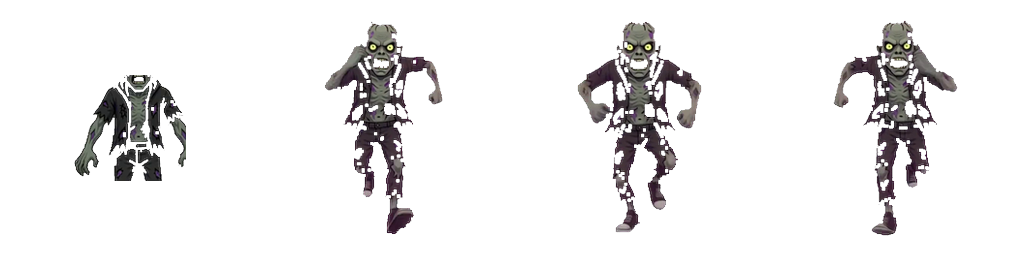
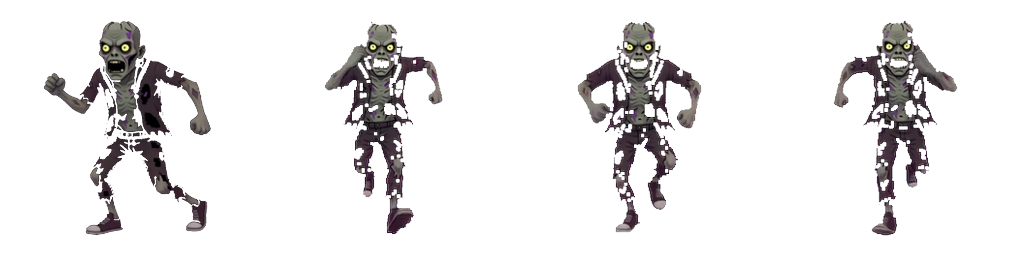
feat: 14-gun HUD strip and leftover sprite frame repairs (v0.3.8)

Changed region(s): [[0.0312, 0.0625, 0.2188, 0.9375]]

diff --git a/index.html b/index.html
@@ -26,7 +26,7 @@
   #hud .cash {color:#4dff86;text-shadow:0 0 4px #17d94f,0 0 12px #17d94f,0 0 22px #0a9e33}
   #hud .wpnName{color:#c46bff;text-shadow:0 0 4px #a03bff,0 0 8px #a03bff;font-size:26px}
   #hud .wpnIcon{display:inline-block;width:38px;height:38px;background-repeat:no-repeat;
-    background-size:500% 100%;vertical-align:middle;filter:drop-shadow(0 0 4px #a03bff)}
+    background-size:1400% 100%;vertical-align:middle;filter:drop-shadow(0 0 4px #a03bff)}
   #hud .sep  {opacity:.35}
   /* Run controls live in the DOM, BELOW the score rows. They used to be canvas-drawn at a fixed
      y=42 and collided with the cash readout at some canvas scales; as a flex row they can never
@@ -55,7 +55,7 @@
 
 // Player-facing build version. Bump this AND sw.js CACHE_VERSION together — the service worker
 // serves the shell from cache, so a version bump without a cache bump ships nothing to players.
-const GAME_VERSION = '0.3.7';
+const GAME_VERSION = '0.3.8';
 const CFG = {
   W: 540, H: 960,                 // logical portrait playfield
   // road is full-screen-width at the bottom now (see roadHalfWidth) — the player only needs
@@ -2287,7 +2287,7 @@ const ANIM={};
   IMGS.queen=heroLoad('assets/queen_hero.png');        // alien queen boss
   IMGS.soldierAnim=heroLoad('assets/soldier_fire.png');// squad rear-view fire loop (4 frames)
   IMGS.perkIcons=heroLoad('assets/perk_icons.png');    // 5 square power-up icons (128px cells)
-  IMGS.weaponIcons=heroLoad('assets/weapon_icons.png');// 5 gun icons (128px cells) for weapon gates
+  IMGS.weaponIcons=heroLoad('assets/weapon_icons.png');// 14 gun icons (128px cells) — War 0-7 + Swarm ports 8-13
   // Praetorian mini-boss animations: idle loop / attack / death sequence
   window.PRAET={idle:load('assets/praet_idle.png',4,4), attack:load('assets/praet_attack.png',5,10), death:load('assets/praet_death.png',5,9)};
 })();
@@ -3140,7 +3140,7 @@ function draw() {
       `<span class="cash">💰 ${G.credits}</span>` +
     `</div>` +
     `<div class="row2">` +
-      `<span class="wpnIcon" style="background-image:url('${wpnIconSrc}');background-position-x:${G.weapon * 25}%"></span>` +
+      `<span class="wpnIcon" style="background-image:url('${wpnIconSrc}');background-size:${Math.max(1, WEAPONS.length) * 100}% 100%;background-position-x:${WEAPONS.length > 1 ? (G.weapon * 100 / (WEAPONS.length - 1)) : 0}%"></span>` +
       `<span class="wpnName">${WEAPONS[G.weapon].name}</span>` +
     `</div>` +
     `<div class="ctrls">` +
@@ -3798,7 +3798,7 @@ const REG = [
   // ITEMS
   { key:'tank',     cat:'ITEMS',   unit:'Ironclad Tank',   action:'Idle',   h: wrapImg(IMGS.tank, 1) },
   { key:'perkIcons',cat:'ITEMS',   unit:'Power-up Icons',  action:'Icons',  h: wrapImg(IMGS.perkIcons, 5) },
-  { key:'wpnIcons', cat:'ITEMS',   unit:'Weapon Icons',    action:'Icons',  h: wrapImg(IMGS.weaponIcons, 5) },
+  { key:'wpnIcons', cat:'ITEMS',   unit:'Weapon Icons',    action:'Icons',  h: wrapImg(IMGS.weaponIcons, 14) },
   { key:'rollerB',  cat:'ITEMS',   unit:'Roller (Breakable)', action:'Idle', h: null, cell:96, xitem:'rollerB' },
   { key:'rollerA',  cat:'ITEMS',   unit:'Roller (Armored)',   action:'Idle', h: null, cell:96, xitem:'rollerA' },
 ];

diff --git a/sw.js b/sw.js
@@ -6,7 +6,7 @@
 // player-facing string) — only CACHE_VERSION needs bumping to bust stale caches; renaming
 // the prefix would work too, but bumping the version is the documented mechanism and is
 // sufficient on its own to force every returning tester to refetch the shell.
-const CACHE_VERSION = 'v28';   // bumped 2026-08-22 for v0.3.7 Swarm weapon port
+const CACHE_VERSION = 'v29';   // bumped 2026-08-22 for v0.3.8 14-gun icons + sprite frame repairs
 const CACHE_NAME = `hiveswarm-shell-${CACHE_VERSION}`;
 const PRECACHE_URLS = ['./', './index.html', './manifest.webmanifest'];
 

diff --git a/art_src/_install_sprite_fixes.py b/art_src/_install_sprite_fixes.py
@@ -1,0 +1,228 @@
+"""Install repaired runner/colossus frames into Swarm source and War copies."""
+from __future__ import annotations
+
+from collections import deque
+from pathlib import Path
+import shutil
+
+from PIL import Image
+
+CELL = 256
+SESS = [
+    Path(r"C:\Users\MiSTRFiNGA\.grok\sessions\C%3A%5CWINDOWS%5Csystem32\01a0272f-2b8d-76c2-a7ee-27779c7bca46\images"),
+    Path(r"C:\Users\MiSTRFiNGA\.grok\sessions\C%3A%5CWindows%5CSystem32\01a0272f-2b8d-76c2-a7ee-27779c7bca46\images"),
+]
+SWARM = Path(r"D:\Dev\HiveSwarm\art_src\topdown_v1")
+WAR = Path(r"D:\Dev\HiveWar\assets\swarm")
+
+
+def find_jpg(name: str) -> Path:
+    for d in SESS:
+        p = d / name
+        if p.exists():
+            return p
+    raise FileNotFoundError(name)
+
+
+def key_black(im: Image.Image, lum: int = 36) -> Image.Image:
+    im = im.convert("RGBA")
+    px = im.load()
+    w, h = im.size
+    vis = bytearray(w * h)
+    q = deque()
+
+    def idx(x, y):
+        return y * w + x
+
+    def is_bg(c):
+        r, g, b, a = c
+        if a < 8:
+            return True
+        return (r + g + b) / 3 <= lum and max(r, g, b) <= lum + 12
+
+    for x in range(w):
+        q.append((x, 0))
+        q.append((x, h - 1))
+    for y in range(h):
+        q.append((0, y))
+        q.append((w - 1, y))
+    while q:
+        x, y = q.popleft()
+        if x < 0 or y < 0 or x >= w or y >= h:
+            continue
+        i = idx(x, y)
+        if vis[i]:
+            continue
+        vis[i] = 1
+        if is_bg(px[x, y]):
+            px[x, y] = (0, 0, 0, 0)
+            q.extend(((x + 1, y), (x - 1, y), (x, y + 1), (x, y - 1)))
+    return im
+
+
+def opaque_bbox(im: Image.Image):
+    return im.split()[-1].getbbox()
+
+
+def fit_to_cell(im: Image.Image, cell: int = CELL, fill: float = 0.90) -> Image.Image:
+    bbox = opaque_bbox(im)
+    if not bbox:
+        return Image.new("RGBA", (cell, cell), (0, 0, 0, 0))
+    crop = im.crop(bbox)
+    cw, ch = crop.size
+    scale = min(fill * cell / cw, fill * cell / ch)
+    nw, nh = max(1, int(round(cw * scale))), max(1, int(round(ch * scale)))
+    crop = crop.resize((nw, nh), Image.Resampling.LANCZOS)
+    canvas = Image.new("RGBA", (cell, cell), (0, 0, 0, 0))
+    canvas.paste(crop, ((cell - nw) // 2, cell - nh - int(cell * 0.04)), crop)
+    return canvas
+
+
+def neighbor_metrics(strip: Image.Image, skip: int):
+    n = strip.width // CELL
+    heights, feet = [], []
+    for i in range(n):
+        if i == skip:
+            continue
+        fr = strip.crop((i * CELL, 0, (i + 1) * CELL, CELL))
+        bb = opaque_bbox(fr)
+        if not bb:
+            continue
+        heights.append(bb[3] - bb[1])
+        feet.append(bb[3])
+    if not heights:
+        return 200, CELL - 20
+    heights.sort()
+    feet.sort()
+    return heights[len(heights) // 2], feet[len(feet) // 2]
+
+
+def place_like_neighbors(keyed: Image.Image, strip: Image.Image, skip: int) -> Image.Image:
+    target_h, target_foot = neighbor_metrics(strip, skip)
+    bbox = opaque_bbox(keyed)
+    crop = keyed.crop(bbox)
+    cw, ch = crop.size
+    scale = target_h / ch
+    max_scale = (CELL - 8) / max(cw, ch)
+    scale = min(scale, max_scale)
+    nw, nh = max(1, int(round(cw * scale))), max(1, int(round(ch * scale)))
+    crop = crop.resize((nw, nh), Image.Resampling.LANCZOS)
+    canvas = Image.new("RGBA", (CELL, CELL), (0, 0, 0, 0))
+    x = (CELL - nw) // 2
+    y = max(4, min(CELL - nh - 4, target_foot - nh))
+    canvas.paste(crop, (x, y), crop)
+    return canvas
+
+
+def patch_strip(path: Path, frame_i: int, keyed: Image.Image) -> None:
+    strip = Image.open(path).convert("RGBA")
+    cell = place_like_neighbors(keyed, strip, frame_i)
+    strip.paste(cell, (frame_i * CELL, 0))
+    strip.save(path)
+    print("patched", path.name, "frame", frame_i, "bbox", opaque_bbox(cell))
+
+
+def save_square(keyed: Image.Image, dest: Path, fill: float = 0.92) -> Image.Image:
+    cell = fit_to_cell(keyed, CELL, fill)
+    dest.parent.mkdir(parents=True, exist_ok=True)
+    cell.save(dest)
+    print("wrote", dest.name, opaque_bbox(cell))
+    return cell
+
+
+def main() -> None:
+    bak = SWARM / "_bak_art_0_6_23"
+    bak.mkdir(exist_ok=True)
+    for name in [
+        "runner_walk_s.png",
+        "runner_e.png",
+        "runner_idle_e.png",
+        "runner_w.png",
+        "runner_idle_w.png",
+        "zombie_colossus_walk_s.png",
+        "zombie_colossus_walk_se.png",
+        "zombie_colossus_walk_sw.png",
+        "zombie_colossus_walk_e.png",
+        "zombie_colossus_walk_w.png",
+        "zombie_colossus_e.png",
+        "zombie_colossus_w.png",
+        "zombie_colossus_idle_e.png",
+        "zombie_colossus_idle_w.png",
+        "crawler_s.png",
+        "crawler_idle_s.png",
+    ]:
+        src = SWARM / name
+        if src.exists() and not (bak / name).exists():
+            shutil.copy2(src, bak / name)
+
+    runner_f0 = key_black(Image.open(find_jpg("12.jpg")))
+    col_s_f1 = key_black(Image.open(find_jpg("14.jpg")))
+    col_se_f3 = key_black(Image.open(find_jpg("11.jpg")))
+    col_sw_f3 = key_black(Image.open(find_jpg("13.jpg")))
+    col_e = key_black(Image.open(find_jpg("17.jpg")))
+    col_e_walk = key_black(Image.open(find_jpg("18.jpg")))
+    runner_e = key_black(Image.open(find_jpg("15.jpg")))
+
+    patch_strip(SWARM / "runner_walk_s.png", 0, runner_f0)
+    patch_strip(SWARM / "zombie_colossus_walk_s.png", 1, col_s_f1)
+    patch_strip(SWARM / "zombie_colossus_walk_se.png", 3, col_se_f3)
+    patch_strip(SWARM / "zombie_colossus_walk_sw.png", 3, col_sw_f3)
+
+    e_idle = save_square(col_e, SWARM / "zombie_colossus_e.png")
+    e_idle.transpose(Image.Transpose.FLIP_LEFT_RIGHT).save(SWARM / "zombie_colossus_w.png")
+    if (SWARM / "zombie_colossus_idle_e.png").exists():
+        idle = Image.new("RGBA", (CELL * 4, CELL), (0, 0, 0, 0))
+        for i in range(4):
+            idle.paste(e_idle, (i * CELL, 0))
+        idle.save(SWARM / "zombie_colossus_idle_e.png")
+        idle.transpose(Image.Transpose.FLIP_LEFT_RIGHT).save(SWARM / "zombie_colossus_idle_w.png")
+        print("wrote colossus idle e/w strips")
+
+    c0 = fit_to_cell(col_e, CELL, 0.90)
+    c1 = fit_to_cell(col_e_walk, CELL, 0.90)
+    walk_e = Image.new("RGBA", (CELL * 4, CELL), (0, 0, 0, 0))
+    for i, fr in enumerate((c0, c1, c0, c1)):
+        walk_e.paste(fr, (i * CELL, 0))
+    walk_e.save(SWARM / "zombie_colossus_walk_e.png")
+    walk_e.transpose(Image.Transpose.FLIP_LEFT_RIGHT).save(SWARM / "zombie_colossus_walk_w.png")
+    print("wrote colossus walk e/w")
+
+    re = save_square(runner_e, SWARM / "runner_e.png", fill=0.88)
+    re.transpose(Image.Transpose.FLIP_LEFT_RIGHT).save(SWARM / "runner_w.png")
+    if (SWARM / "runner_idle_e.png").exists():
+        idle = Image.new("RGBA", (CELL * 4, CELL), (0, 0, 0, 0))
+        for i in range(4):
+            idle.paste(re, (i * CELL, 0))
+        idle.save(SWARM / "runner_idle_e.png")
+        idle.transpose(Image.Transpose.FLIP_LEFT_RIGHT).save(SWARM / "runner_idle_w.png")
+        print("wrote runner idle e/w")
+
+    craw = Image.open(SWARM / "crawler_s.png").convert("RGBA")
+    bb = opaque_bbox(craw)
+    if bb:
+        ch = bb[3] - bb[1]
+        if ch < CELL * 0.55:
+            save_square(craw, SWARM / "crawler_s.png", fill=0.88)
+            print("upscaled crawler_s", ch, "-> fill 0.88")
+            if (SWARM / "crawler_idle_s.png").exists():
+                strip = Image.open(SWARM / "crawler_idle_s.png").convert("RGBA")
+                n = max(1, strip.width // CELL)
+                out = Image.new("RGBA", strip.size, (0, 0, 0, 0))
+                cell = Image.open(SWARM / "crawler_s.png")
+                for i in range(n):
+                    out.paste(cell, (i * CELL, 0))
+                out.save(SWARM / "crawler_idle_s.png")
+                print("filled crawler_idle_s from scaled idle")
+
+    for stem in ("runner", "zombie_colossus"):
+        for d in ("s", "se", "sw"):
+            src = SWARM / f"{stem}_walk_{d}.png"
+            dst = WAR / f"{stem}_walk_{d}.png"
+            shutil.copy2(src, dst)
+            print("war copy", dst.name)
+
+    print("DONE")
+
+
+if __name__ == "__main__":
+    main()

diff --git a/qa/_verify_0_3_5_cast.py b/qa/_verify_0_3_5_cast.py
@@ -20,8 +20,8 @@ ENEMY_SFX = ["shambler_attack.mp3", "shambler_die.mp3", "slime_attack.mp3", "col
 
 class CastImportTests(unittest.TestCase):
     def test_version_pair(self):
-        self.assertIn("const GAME_VERSION = '0.3.7'", HTML)
-        self.assertIn("CACHE_VERSION = 'v28'", SW)
+        self.assertIn("const GAME_VERSION = '0.3.8'", HTML)
+        self.assertIn("CACHE_VERSION = 'v29'", SW)
 
     def test_pickkind_uses_full_roster(self):
         self.assertIn("function kindCount()", HTML)
@@ -61,6 +61,13 @@ class CastImportTests(unittest.TestCase):
         self.assertIn("name:'Heat Seeker'", HTML)
         self.assertIn("sfx:'pulse'", HTML)
         self.assertIn("sfxAttack:'shamblerAtk'", HTML)
+
+    def test_fourteen_weapon_icons(self):
+        from PIL import Image
+        im = Image.open(ROOT / "assets" / "weapon_icons.png")
+        self.assertEqual(im.size, (1792, 128))
+        self.assertIn("WEAPON_LAST = 13", HTML)
+        self.assertIn("wrapImg(IMGS.weaponIcons, 14)", HTML)
 
 
 if __name__ == "__main__":

diff --git a/HiveWar.md b/HiveWar.md
@@ -3,7 +3,7 @@ type: game-documentation
 title: HiVE WAR
 description: Canonical source of truth for HiVE WAR — status, spawn mix, developer rules, and APK/Pages.
 status: playable-in-development
-version: 0.3.7
+version: 0.3.8
 updated: 2026-08-22
 tags: [game, hivemind, webgame, documentation]
 ---
@@ -16,13 +16,13 @@ If they disagree with this file, this file wins. Update this file in place when 
 
 | | |
 |---|---|
-| **Version** | `0.3.7` · `sw.js` `CACHE_VERSION = v28` |
+| **Version** | `0.3.8` · `sw.js` `CACHE_VERSION = v29` |
 | **Master path** | `D:\Dev\HiveWar` — edit here only |
 | **Game file** | `index.html` — one file: engine, FORGE, HUD, run loop |
 | **Launcher** | `Launch HiVE War.bat` (never `file://`) |
 | **GitHub** | https://github.com/MiSTRFiNGA/HiveWar (public, Pages on `master`) |
 | **Pages** | https://mistrfinga.github.io/HiveWar/ |
-| **APK (one only)** | `C:\Users\MiSTRFiNGA\Desktop\My Games\_APKs\HiveWar-0.3.7.apk`. Older War APKs are in `_APKs\Archive`. |
+| **APK (one only)** | `C:\Users\MiSTRFiNGA\Desktop\My Games\_APKs\HiveWar-0.3.8.apk`. Older War APKs are in `_APKs\Archive`. |
 | **Genre** | Lane / corridor shooter (refs: Real War, Z Route). |
 | **Not** | HiVE SWARM (`D:\Dev\HiveSwarm`) is the 360° survivors-like. Borrow a *behaviour* from it; do not edit that repo from this lane. |
 
@@ -78,6 +78,8 @@ Facing: `e.lane < -0.16` → SW, `> 0.16` → SE, else S. Sheets live in `assets
 
 War guns keep rifle/MG/lightning/grenade. Swarm ports (Pulse Carbine, Heat Seeker, Breach Laser, Storm Arc, Nova Shell, Toxin Injector) use Swarm `pulse/seeker/beam/chain/nova/poison` samples. Flamethrower uses `flame_loop`. FORGE v5 refreshes saved weapon sfx.
 
+`assets/weapon_icons.png` is a **14-cell** 128px strip (1792×128, magenta keyed). Cells 0–4 are the original pixel guns; 5–13 are the missing ladder art (Flamethrower through Toxin). HUD `wpnIcon` sizes itself from `WEAPONS.length` (`1400%` strip, position `i * 100 / 13`). FORGE wrap is 14 frames. Gate draw already sliced by `width/height`.
+
 Queen stays out of the fodder roster. Praetorian stays the level guardian (`PRAET` idle/attack/death).
 
 ---
@@ -100,6 +102,14 @@ Queen stays out of the fodder roster. Praetorian stays the level guardian (`PRAE
 ---
 
 ## 4. Change record
+
+### 2026-08-22 — Grok · v0.3.8 · 14 gun icons + leftover sprite frames
+
+- Generated + keyed nine missing weapon icons and appended them to `assets/weapon_icons.png` (cells 5–13: Flame, Rail, Rocket, Pulse, Seeker, Breach, Storm, Nova, Toxin). HUD/FORGE now treat the strip as 14 cells.
+- Runner `walk_s` frame 0 had a headless torso — replaced with a full-body opposite-contact pose.
+- Colossus `walk_s` frame 1 was cropped at the waist — replaced with a full-body mid-step. SE/SW frame 3 were half-bodies — replaced.
+- Recopied Swarm `runner` / `zombie_colossus` SW/S/SE walks into `assets/swarm/`.
+- Honest leftovers: War colossus **S** is the tank giant; **SE/SW** are still the skull-and-saw body (same name, two silhouettes on the lane edges). New icons 5–13 are painted vs pixel 0–4. Necro Node frame 0 is a smaller pulse, not a crop.
 
 ### 2026-08-22 — Grok · v0.3.7 · Swarm weapon port
 
